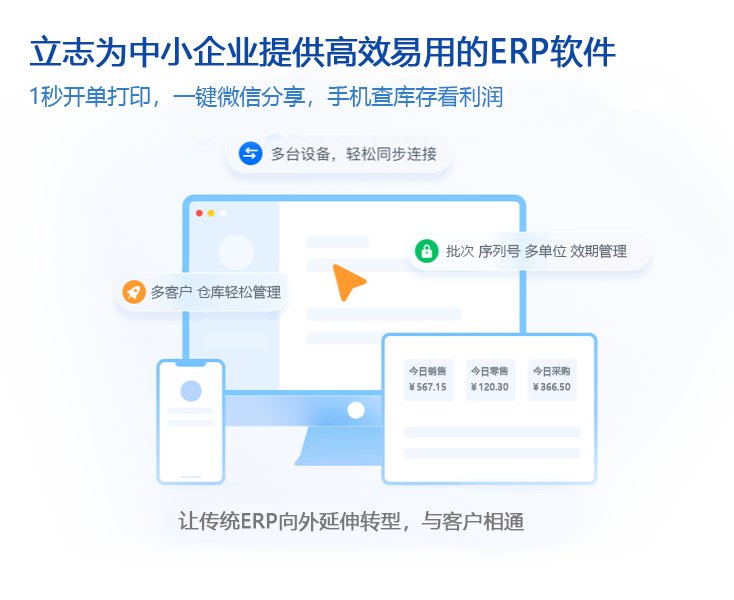
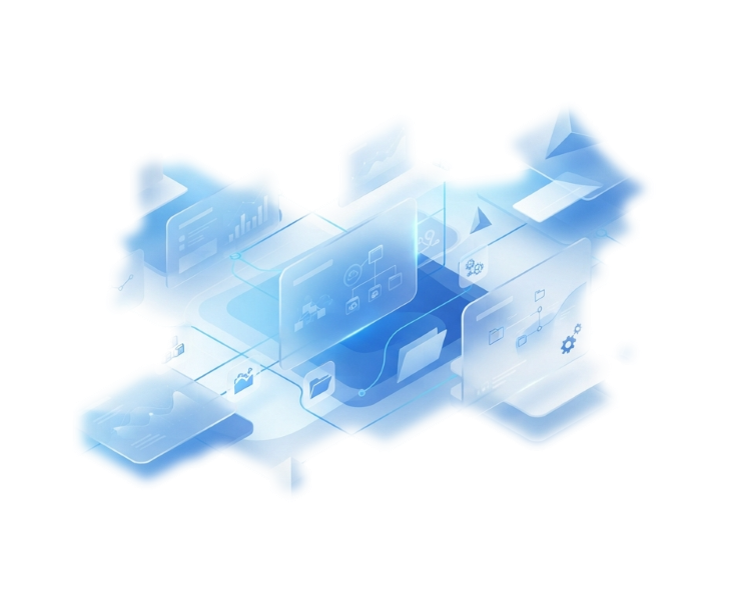
feat: 优化登录页与领用汇总展示

diff --git a/jshERP-web/public/index.html b/jshERP-web/public/index.html
@@ -257,19 +257,9 @@
     }
     window._CONFIG = {};
     window._CONFIG['domianURL'] = '/jshERP-boot';
-    let statisticsCode = '1cd9bcbaae133f03a6eb19da6579aaba'
     window.SYS_TITLE = getPlatform("name");
     window.SYS_URL = getPlatform("url");
-    window._statistics = 'https://hm.baidu.com/hm.js?' + statisticsCode
     document.title = window.SYS_TITLE;
-    //statistics
-    var _hmt = _hmt || [];
-    (function() {
-      var hm = document.createElement("script");
-      hm.src = window._statistics;
-      var s = document.getElementsByTagName("script")[0];
-      s.parentNode.insertBefore(hm, s);
-    })();
   </script>
 </head>
 
@@ -286,37 +276,4 @@
   </div>
 </div>
 </body>
-
-<!-- 全局配置-多语言切换-开始 -->
-<script src="<%= BASE_URL %>static/translate.js"></script>
-<script>
-//设置本地语种（当前网页的语种）。如果不设置，默认就是 'chinese_simplified' 简体中文
-translate.language.setLocal('chinese_simplified');
-translate.service.use('client.edge');
-//翻译自定义
-translate.nomenclature.append('chinese_simplified','english',`
-办公用品管理系统=OfficeSuppliesManagement
-`)
-translate.nomenclature.append('chinese_simplified','vietnamese',`
-办公用品管理系统=OfficeSuppliesManagement
-`)
-//开启html页面变化的监控，对变化部分会进行自动翻译
-translate.listener.start();
-//不显示语言选择标签
-translate.selectLanguageTag.show = false;
-//执行翻译初始化操作，显示出select语言选择
-//translate.execute();
-
-//VUE的渲染需要时间，所以留出一点点时间来进行翻译切换
-document.addEventListener('DOMContentLoaded', function () {
-    //页面 DOM 已渲染完毕，当然最好是能监控到整个vue渲染完毕后触发最好
-    translate.execute();
-    //2秒后再一次，避免有遗漏
-    setTimeout(function(){
-    	translate.execute();
-    },2000);
-});
-</script>
-<!-- 全局配置-多语言切换-结束 -->
-
 </html>

diff --git a/jshERP-web/src/components/layouts/UserLayout.vue b/jshERP-web/src/components/layouts/UserLayout.vue
@@ -1,6 +1,6 @@
 <template>
   <div class="back-layout">
-    <div class="lang-setting">
+    <div v-if="false" class="lang-setting">
       <a-select placeholder="请选择语言" showSearch optionFilterProp="children" :value="currentLang" @change="handleChangeLang" class="select-list">
         <a-select-option class="ignore" value="chinese_simplified">简体中文</a-select-option>
         <a-select-option class="ignore" value="chinese_traditional">繁體中文</a-select-option>
@@ -89,7 +89,7 @@
                 <a-col>
                   <a href="/">
                     <span class="title">{{systemTitle}}</span>
-                    <small class="desc">V3.6</small>
+                    <small class="desc">V1.0</small>
                   </a>
                 </a-col>
               </a-row>
@@ -116,12 +116,6 @@
           <span>小程序版</span>
         </div>
       </div>
-      <p>
-        <span v-if="this.isShowRight">管伊佳科技</span>
-        © 2015-2030 {{systemTitle}} - All Right Reserved 版权所有
-        <a style="color:#00458a; padding-right: 10px" :href="systemUrl" target="_blank">官方网站</a>
-        <span v-if="this.isShowRight"><a href="http://beian.miit.gov.cn/" target="_blank">苏ICP备2021042833号</a></span>
-      </p>
     </div>
     <a-modal v-model="isAndroidShow" title="微信扫一扫下载安卓版" width="200" centered>
       <template slot="footer">
@@ -160,7 +154,6 @@
         isAndroidShow: false,
         isIphoneShow: false,
         isMiniProgramShow: false,
-        currentLang: '',
       }
     },
     mounted () {
@@ -170,7 +163,6 @@
       document.body.classList.remove('userLayout')
     },
     created () {
-      this.currentLang = translate.language.getCurrent()
       let host = window.location.host
       if(host === 'cloud.gyjerp.com') {
         this.isShowRight = true
@@ -196,10 +188,6 @@
       },
       openMiniProgram() {
         this.isMiniProgramShow = true
-      },
-      handleChangeLang(value) {
-        translate.changeLanguage(value)
-        this.currentLang = translate.language.getCurrent()
       }
     }
   }

diff --git a/jshERP-web/src/components/setting/SettingDrawer.vue b/jshERP-web/src/components/setting/SettingDrawer.vue
@@ -83,7 +83,7 @@
         </div>
         <a-divider />
 
-        <div :style="{ marginBottom: '24px' }">
+        <div v-if="false" :style="{ marginBottom: '24px' }">
           <h3 class="setting-drawer-index-title">语言设置</h3>
           <div style="padding: 10px 0 50px 0">
             <div style="float:left; width: 40%; line-height: 30px">{{langSetTitle}}</div>
@@ -230,9 +230,6 @@
         this.$store.dispatch('ToggleMultipage', this.multipage)
       }
     },
-    created () {
-      this.currentLang = translate.language.getCurrent()
-    },
     methods: {
       showDrawer() {
         this.visible = true
@@ -278,10 +275,6 @@
       handleFixSiderbar (fixed) {
         this.fixSiderbar = fixed
         this.$store.dispatch('ToggleFixSiderbar', fixed)
-      },
-      handleChangeLang(value) {
-        translate.changeLanguage(value)
-        this.currentLang = translate.language.getCurrent()
       }
     },
   }

diff --git a/jshERP-web/src/views/user/Login.vue b/jshERP-web/src/views/user/Login.vue
@@ -61,14 +61,6 @@
         </a-button>
       </a-form-item>
 
-      <div class="login-copyright" v-if="device === 'mobile'">
-        <a-row>
-          <a-col>
-            © 2015-2030 Powered By
-            <a style="color:#00458a;" :href="systemUrl" target="_blank">官方网站</a>
-          </a-col>
-        </a-row>
-      </div>
     </a-form>
   </div>
 </template>

diff --git a/jshERP-web/src/views/report/OutMaterialCount.vue b/jshERP-web/src/views/report/OutMaterialCount.vue
@@ -214,7 +214,7 @@
               return (t !== '合计') ? (parseInt(index) + 1) : t
             }
           },
-          {title: '发放部门', dataIndex: 'issueDepartment', width: 120, ellipsis:true},
+          {title: '领用部门', dataIndex: 'issueDepartment', width: 120, ellipsis:true},
           {title: '条码', dataIndex: 'barCode', sorter: (a, b) => a.barCode - b.barCode, width: 120},
           {title: '名称', dataIndex: 'mName', width: 120, ellipsis:true},
           {title: '规格', dataIndex: 'standard', width: 100, ellipsis:true},
@@ -356,7 +356,7 @@
       exportExcel() {
         let list = []
         let quantityTitle = this.roleCode === 'ROLE_DEPT' ? '领用数量' : '出库数量'
-        let head = '发放部门,条码,名称,规格,型号,颜色,品牌,制造商,类型,单位,' + quantityTitle + ',出库金额'
+        let head = '领用部门,条码,名称,规格,型号,颜色,品牌,制造商,类型,单位,' + quantityTitle + ',出库金额'
         for (let i = 0; i < this.dataSource.length; i++) {
           let item = []
           let ds = this.dataSource[i]

diff --git a/jshERP-web/src/permission.js b/jshERP-web/src/permission.js
@@ -45,9 +45,6 @@ router.beforeEach((to, from, next) => {
           })
         })
       } else {
-        if (to.path) {
-          _hmt.push(['_trackPageview', '/#' + to.fullPath]);
-        }
         next()
       }
     }